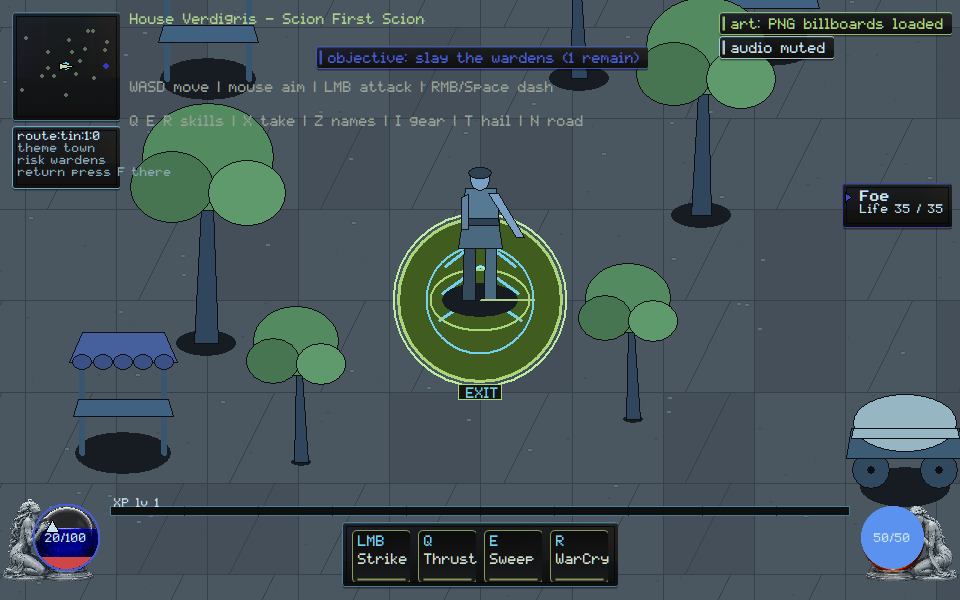
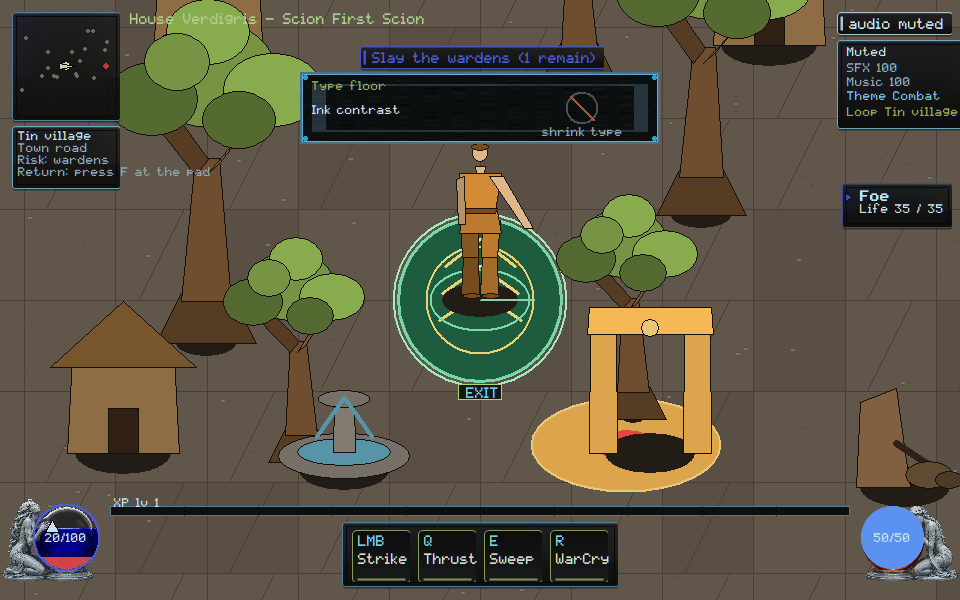
native: name Theme Combat unload and Type floor so leftover loop and shrink type cannot certify

diff --git a/native/client/main.cpp b/native/client/main.cpp
@@ -514,6 +514,8 @@ struct ClientState {
   bool shader_bindings_review_strip = false;
   bool memory_soak_review_strip = false;
   bool frame_budget_review_strip = false;
+  bool music_phase_review_strip = false;
+  bool hud_scale_floor_review_strip = false;
   bool debug_overlay = false;
   // Last full paint_scene duration in milliseconds (F3 overlay); the honest
   // per-frame budget readout that catches presentation-cost regressions.
@@ -7948,6 +7950,84 @@ void paint_frame_budget_review_strip(ClientState& state, HDC dc, const RECT& bou
   SelectObject(dc, old_font);
 }
 
+void paint_music_phase_review_strip(ClientState& state, HDC dc, const RECT& bounds,
+                                    render::List& rl) {
+  if (!state.music_phase_review_strip) return;
+  const int s = hud_scale(static_cast<int>(bounds.bottom));
+  const int pane_w = 360 * s;
+  const int pane_h = 72 * s;
+  const int left = (static_cast<int>(bounds.right) - pane_w) / 2;
+  const int top = 72 * s;
+  RECT pane{left, top, left + pane_w, top + pane_h};
+  if (!draw_framekit_nine(state.billboards, dc, state.billboards.fk_panel, pane))
+    skin::panel(dc, pane, skin::kVerdigris, 235, 8.0f);
+  rl.push_back({render::Op::Hud, static_cast<double>(left),
+                static_cast<double>(top), 0.0, 1, "music-phase-strip"});
+  SetBkMode(dc, TRANSPARENT);
+  HGDIOBJ old_font = SelectObject(dc, skin::font_small());
+  SetTextColor(dc, skin::kVerdigris);
+  const char* title = verdigris::client::music::owner_theme_label("music:combat");
+  TextOutA(dc, left + 12 * s, top + 8 * s, title, static_cast<int>(strlen(title)));
+  SetTextColor(dc, skin::kInk);
+  const char* body = verdigris::client::music::owner_music_none_label();
+  TextOutA(dc, left + 12 * s, top + 32 * s, body, static_cast<int>(strlen(body)));
+  const int rx = left + pane_w - 78 * s;
+  const int ry = top + 36 * s;
+  ring_ellipse(dc, rx, ry, 16 * s, 16 * s, RGB(80, 80, 80), 2);
+  draw_line(dc, rx - 12 * s, ry - 12 * s, rx + 12 * s, ry + 12 * s, RGB(185, 72, 69),
+            2);
+  SetTextColor(dc, skin::kInkDim);
+  const char* rejected = "leftover loop";
+  TextOutA(dc, rx - 44 * s, top + pane_h - 18 * s, rejected,
+           static_cast<int>(strlen(rejected)));
+  rl.push_back({render::Op::Hud, static_cast<double>(left + 12 * s),
+                static_cast<double>(top + 8 * s), 0.0, 1, "sound:theme-combat"});
+  rl.push_back({render::Op::Hud, static_cast<double>(left + 12 * s),
+                static_cast<double>(top + 32 * s), 0.0, 1, "sound:music-none"});
+  rl.push_back({render::Op::Hud, static_cast<double>(rx), static_cast<double>(ry),
+                0.0, 0, "sound-strip:leftover-loop-rejected"});
+  SelectObject(dc, old_font);
+}
+
+void paint_hud_scale_floor_review_strip(ClientState& state, HDC dc, const RECT& bounds,
+                                        render::List& rl) {
+  if (!state.hud_scale_floor_review_strip) return;
+  const int s = hud_scale(static_cast<int>(bounds.bottom));
+  const int pane_w = 360 * s;
+  const int pane_h = 72 * s;
+  const int left = (static_cast<int>(bounds.right) - pane_w) / 2;
+  const int top = 72 * s;
+  RECT pane{left, top, left + pane_w, top + pane_h};
+  if (!draw_framekit_nine(state.billboards, dc, state.billboards.fk_panel, pane))
+    skin::panel(dc, pane, skin::kVerdigris, 235, 8.0f);
+  rl.push_back({render::Op::Hud, static_cast<double>(left),
+                static_cast<double>(top), 0.0, 1, "hud-scale-floor-strip"});
+  SetBkMode(dc, TRANSPARENT);
+  HGDIOBJ old_font = SelectObject(dc, skin::font_small());
+  SetTextColor(dc, skin::kVerdigris);
+  const char* title = skin::owner_type_floor_label();
+  TextOutA(dc, left + 12 * s, top + 8 * s, title, static_cast<int>(strlen(title)));
+  SetTextColor(dc, skin::kInk);
+  const char* body = skin::owner_ink_contrast_label();
+  TextOutA(dc, left + 12 * s, top + 32 * s, body, static_cast<int>(strlen(body)));
+  const int rx = left + pane_w - 78 * s;
+  const int ry = top + 36 * s;
+  ring_ellipse(dc, rx, ry, 16 * s, 16 * s, RGB(80, 80, 80), 2);
+  draw_line(dc, rx - 12 * s, ry - 12 * s, rx + 12 * s, ry + 12 * s, RGB(185, 72, 69),
+            2);
+  SetTextColor(dc, skin::kInkDim);
+  const char* rejected = "shrink type";
+  TextOutA(dc, rx - 40 * s, top + pane_h - 18 * s, rejected,
+           static_cast<int>(strlen(rejected)));
+  rl.push_back({render::Op::Hud, static_cast<double>(left + 12 * s),
+                static_cast<double>(top + 8 * s), 0.0, 1, "ui:type-floor"});
+  rl.push_back({render::Op::Hud, static_cast<double>(left + 12 * s),
+                static_cast<double>(top + 32 * s), 0.0, 1, "ui:ink-contrast"});
+  rl.push_back({render::Op::Hud, static_cast<double>(rx), static_cast<double>(ry),
+                0.0, 0, "ui-strip:shrink-type-rejected"});
+  SelectObject(dc, old_font);
+}
+
 const char* attack_stage_label(vector_art::Pose::AttackStage stage) {
   switch (stage) {
     case vector_art::Pose::AttackStage::Windup:
@@ -9010,6 +9090,8 @@ void paint_scene(ClientState& state, HDC dc, const RECT& bounds) {
   paint_shader_bindings_review_strip(state, dc, bounds, rl);
   paint_memory_soak_review_strip(state, dc, bounds, rl);
   paint_frame_budget_review_strip(state, dc, bounds, rl);
+  paint_music_phase_review_strip(state, dc, bounds, rl);
+  paint_hud_scale_floor_review_strip(state, dc, bounds, rl);
 
   state.render_list = std::move(rl);
   if (state.debug_overlay) {
@@ -10378,8 +10460,21 @@ int scenario_hud_scale_floor() {
     return 0;
   }
   const std::string png = dir + "\\hud-scale-floor-960x600.png";
+  state.hud_scale_floor_review_strip = true;
   scenario_check(reference_present(state, 960, 600, png),
                  "hud-scale-floor: live HUD capture written");
+  bool type_floor = false;
+  bool ink_contrast = false;
+  bool shrink_type = false;
+  for (const auto& item : state.render_list) {
+    if (item.op != render::Op::Hud) continue;
+    if (item.label == "ui:type-floor") type_floor = true;
+    if (item.label == "ui:ink-contrast") ink_contrast = true;
+    if (item.label == "ui-strip:shrink-type-rejected") shrink_type = true;
+  }
+  scenario_check(type_floor && ink_contrast,
+                 "hud-scale-floor: live HUD names Type floor and Ink contrast");
+  scenario_check(shrink_type, "hud-scale-floor: live HUD rejects shrink type");
   return 0;
 }
 
@@ -12682,8 +12777,21 @@ int scenario_music_phase() {
   scenario_follow_camera(capture);
   drain_audio(capture);
   const std::string png = dir + "\\music-phase-960x600.png";
+  capture.music_phase_review_strip = true;
   scenario_check(reference_present(capture, 960, 600, png),
                  "music-phase: combat-theme capture written");
+  bool theme_combat = false;
+  bool music_none = false;
+  bool leftover_loop = false;
+  for (const auto& item : capture.render_list) {
+    if (item.op != render::Op::Hud) continue;
+    if (item.label == "sound:theme-combat") theme_combat = true;
+    if (item.label == "sound:music-none") music_none = true;
+    if (item.label == "sound-strip:leftover-loop-rejected") leftover_loop = true;
+  }
+  scenario_check(theme_combat && music_none,
+                 "music-phase: live HUD names Theme Combat and Music none");
+  scenario_check(leftover_loop, "music-phase: live HUD rejects leftover loop");
   return scenario_failures;
 }
 

diff --git a/native/client/ui_skin.hpp b/native/client/ui_skin.hpp
@@ -104,6 +104,9 @@ inline int ui_scale() { return ui_scale_ref(); }
 inline constexpr int kMinSmallPx = 10;
 inline constexpr int kMinBodyPx = 12;
 
+inline const char* owner_type_floor_label() { return "Type floor"; }
+inline const char* owner_ink_contrast_label() { return "Ink contrast"; }
+
 // Registers the web client's pixel fonts for this process so both clients
 // share one typeface. Safe to call often; loads once.
 inline void ensure_game_fonts() {

diff --git a/native/client/add-one-music-state-transition.hpp b/native/client/add-one-music-state-transition.hpp
@@ -30,6 +30,8 @@ inline const char* owner_theme_label(const std::string& want) {
   return "Theme None";
 }
 
+inline const char* owner_music_none_label() { return "Music none"; }
+
 inline bool leftover_theme_fails_review(bool scene_loaded,
                                         const std::string& sent) {
   return !scene_loaded && sent != "music:none" && !sent.empty();

diff --git a/docs/execution/CROSSWALK.md b/docs/execution/CROSSWALK.md
@@ -163,9 +163,9 @@ VG-SOUND-002: CC0 provenance table for combat cues including swing windup
 Evidence `docs/execution/evidence/VG-SOUND-002.json`.
 VG-SOUND-008: explore/combat/recovery music coalesced per drain; unload
 sets `music:none` and mutes the music bus so a leftover combat loop cannot
-voice. Live mixer paints Theme Combat / Recovery / None. A mute chip
-alone cannot certify the phase. Scenario `music-phase`. Device mute still
-silences waveOut. Evidence `docs/execution/evidence/VG-SOUND-008.json`.
+voice. Owner strip paints Theme Combat / Music none. Leftover loop cannot
+certify. Scenario `music-phase`. Device mute still silences waveOut.
+Evidence `docs/execution/evidence/VG-SOUND-008.json`.
 VG-GPU-001: isolated software backend (64×64 textured quad + shutdown).
 Owner strip paints Software quad / No D3D. Unknown GPU cannot certify.
 Not a Windows-only D3D proof. Scenario `gpu-sample`. Evidence
@@ -305,7 +305,9 @@ Owner strip paints Kill fill / Gold pit. A feature or VG-ID count cannot
 pass. Each dimension names a journey. Scenario `xp-meter`. Evidence
 `docs/execution/evidence/VG-GOV-003.json`.
 VG-UI-007: `vital-orbs` — life left/red, mana right/blue. Mute is a HUD
-chip. Owner strip paints Life left / Mana right. An X on the mana globe
+chip. Owner strip paints Life left / Mana right. `hud-scale-floor` owner
+strip paints Type floor / Ink contrast. Shrink type cannot certify.
+An X on the mana globe
 cannot count as a non-color cue. Scenario `vital-orbs`. Evidence
 `docs/execution/evidence/VG-UI-007.json`.
 VG-GOV-006: disconnect/crash/quit cannot ack uncommitted extraction.

diff --git a/orchestration/CURSOR_KIMI_LANES.md b/orchestration/CURSOR_KIMI_LANES.md
@@ -779,3 +779,13 @@ Please move off that branch before taking a new native path.
 - **Stay off** `native/client/main.cpp` and `docs/execution/**`. SEC/CORE
   remain yours. GOV-002 still unstamped.
 
+## Cursor reply (2026-09-06, Theme Combat unload, Type floor)
+
+- **Lease:** `main.cpp` still **ACTIVE**. `remote_session.cpp` stays
+  **RELEASED**. Do not re-spec TASK-0108 core/wire (`3b929637`).
+- **Landed this push:** VG-SOUND-008 — Theme Combat / Music none; leftover
+  loop rejected. VG-UI-007 type-floor — Type floor / Ink contrast; shrink
+  type rejected. Captures viewed. STORY stays yours. Not Owner Demo.
+- **Stay off** `native/client/main.cpp` and `docs/execution/**`. SEC/CORE
+  remain yours. GOV-002 still unstamped.
+

diff --git a/docs/rebuild/HANDOFF.md b/docs/rebuild/HANDOFF.md
@@ -1,5 +1,15 @@
 # Native reconstitution handoff
 
+## 2026-09-06 — Theme Combat unload, Type floor (Cursor)
+
+- VG-SOUND-008: owner Theme Combat strip paints Music none. Leftover loop
+  cannot certify. Unload still mutes the music bus. STORY phase stays Kimi.
+- VG-UI-007: `hud-scale-floor` owner Type floor strip paints Ink contrast.
+  Shrink type cannot certify overflow. Life left / Mana right on
+  `vital-orbs` is unchanged. Owner Demo (VG-UI-006) not duplicated.
+- Scenarios `music-phase` / `hud-scale-floor` PASS. Captures viewed.
+  Not Owner Demo. Not TASK-0108.
+
 ## 2026-09-06 — layout v1, soak envelope, named machine (Cursor)
 
 - VG-GPU-003: owner Layout v1 strip paints No source. Stale HLSL cannot
